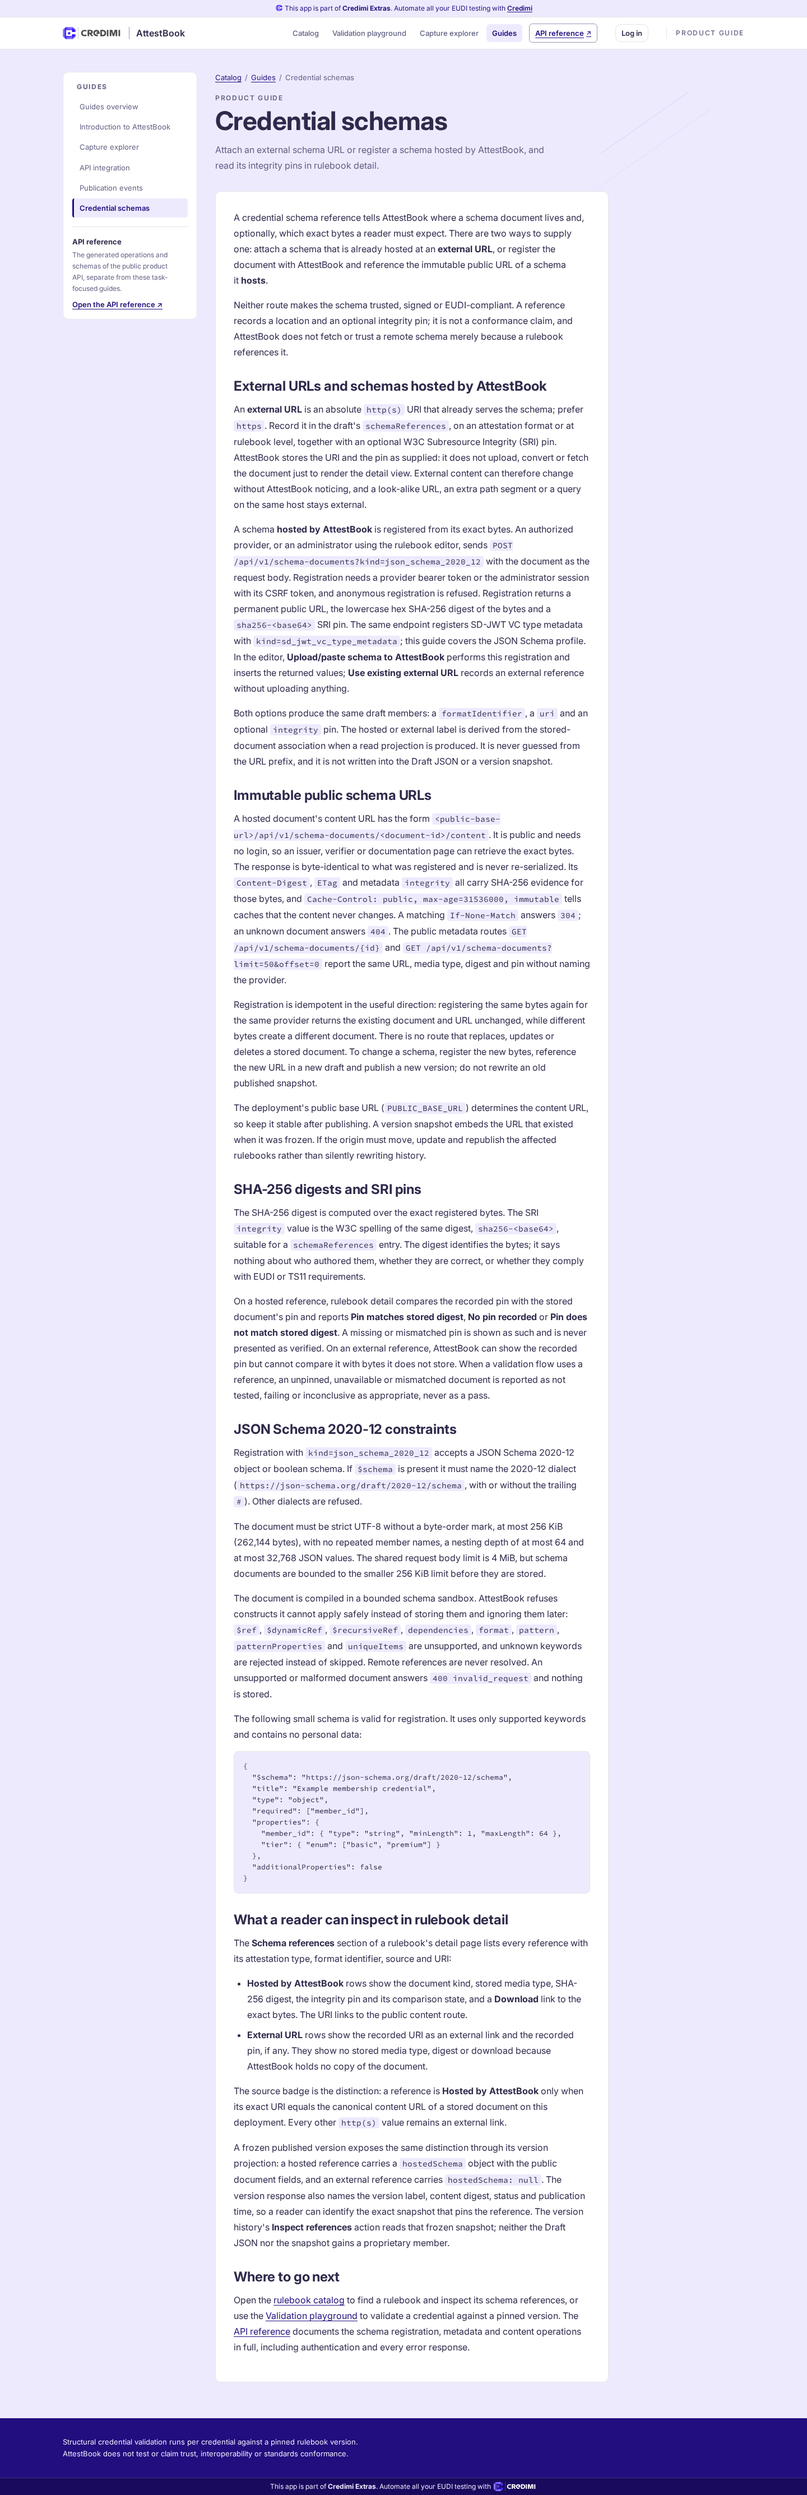
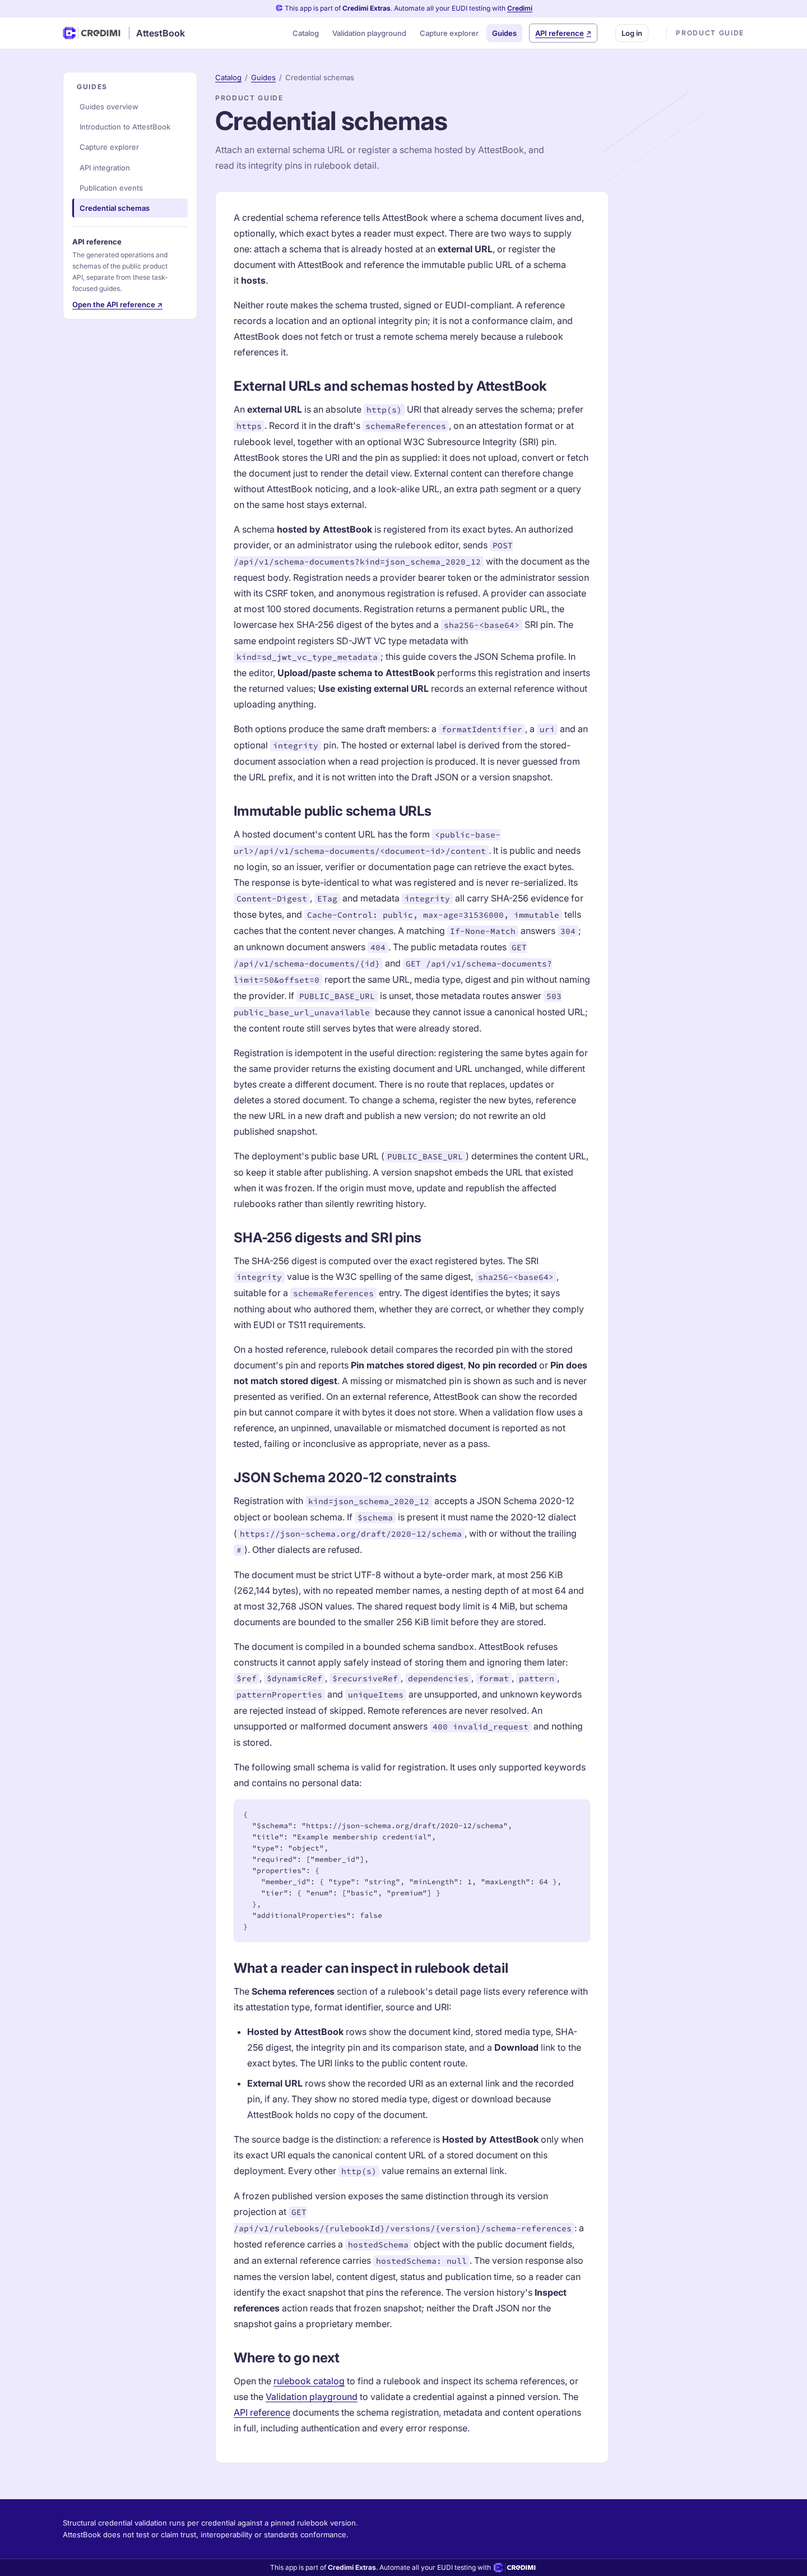
docs(guide): document schema limits and version references
Name the frozen version schema-references endpoint, the metadata 503 when no public base URL is configured, the per-provider document bound, and the hosted content URL form; cover them in the component test.

Changed region(s): [[0.0938, 0.0312, 0.7188, 0.9993], [0.0938, 0.0312, 0.2188, 0.1249], [0.6562, 0.0, 0.7188, 0.0312]]

diff --git a/ui/src/guide.test.tsx b/ui/src/guide.test.tsx
@@ -430,8 +430,12 @@ describe('product guide views', () => {
     expect(article).toHaveTextContent('Hosted by AttestBook')
     expect(article).toHaveTextContent('External URL')
     expect(article).toHaveTextContent('/api/v1/schema-documents')
+    expect(article).toHaveTextContent('/api/v1/schema-documents/<document-id>/content')
     expect(article).toHaveTextContent('/api/v1/schema-documents?limit=50&offset=0')
+    expect(article).toHaveTextContent('503 public_base_url_unavailable')
+    expect(article).toHaveTextContent('at most 100 stored documents')
     expect(article).toHaveTextContent('kind=sd_jwt_vc_type_metadata')
+    expect(article).toHaveTextContent('/versions/{version}/schema-references')
     expect(article).toHaveTextContent('sha256-<base64>')
     expect(
       within(article as HTMLElement).getByRole('link', { name: 'rulebook catalog' }),

diff --git a/docs/guides/credential-schemas.md b/docs/guides/credential-schemas.md
@@ -20,12 +20,12 @@ A schema **hosted by AttestBook** is registered from its exact bytes. An authori
 or an administrator using the rulebook editor, sends `POST
 /api/v1/schema-documents?kind=json_schema_2020_12` with the document as the request body.
 Registration needs a provider bearer token or the administrator session with its CSRF token,
-and anonymous registration is refused. Registration returns a permanent public URL, the
-lowercase hex SHA-256 digest of the bytes and a `sha256-<base64>` SRI pin. The same endpoint
-registers SD-JWT VC type metadata with `kind=sd_jwt_vc_type_metadata`; this guide covers the
-JSON Schema profile. In the editor, **Upload/paste schema to AttestBook** performs this
-registration and inserts the returned values; **Use existing external URL** records an external
-reference without uploading anything.
+and anonymous registration is refused. A provider can associate at most 100 stored documents.
+Registration returns a permanent public URL, the lowercase hex SHA-256 digest of the bytes and a
+`sha256-<base64>` SRI pin. The same endpoint registers SD-JWT VC type metadata with
+`kind=sd_jwt_vc_type_metadata`; this guide covers the JSON Schema profile. In the editor,
+**Upload/paste schema to AttestBook** performs this registration and inserts the returned
+values; **Use existing external URL** records an external reference without uploading anything.
 
 Both options produce the same draft members: a `formatIdentifier`, a `uri` and an optional
 `integrity` pin. The hosted or external label is derived from the stored-document association
@@ -43,7 +43,9 @@ is byte-identical to what was registered and is never re-serialized. Its `Conten
 changes. A matching `If-None-Match` answers `304`; an unknown document answers `404`. The
 public metadata routes `GET /api/v1/schema-documents/{id}` and
 `GET /api/v1/schema-documents?limit=50&offset=0` report the same URL, media type, digest and
-pin without naming the provider.
+pin without naming the provider. If `PUBLIC_BASE_URL` is unset, those metadata routes answer
+`503 public_base_url_unavailable` because they cannot issue a canonical hosted URL; the content
+route still serves bytes that were already stored.
 
 Registration is idempotent in the useful direction: registering the same bytes again for the
 same provider returns the existing document and URL unchanged, while different bytes create a
@@ -123,12 +125,13 @@ The source badge is the distinction: a reference is **Hosted by AttestBook** onl
 exact URI equals the canonical content URL of a stored document on this deployment. Every
 other `http(s)` value remains an external link.
 
-A frozen published version exposes the same distinction through its version projection: a
-hosted reference carries a `hostedSchema` object with the public document fields, and an
-external reference carries `hostedSchema: null`. The version response also names the version
-label, content digest, status and publication time, so a reader can identify the exact snapshot
-that pins the reference. The version history's **Inspect references** action reads that frozen
-snapshot; neither the Draft JSON nor the snapshot gains a proprietary member.
+A frozen published version exposes the same distinction through its version projection at
+`GET /api/v1/rulebooks/{rulebookId}/versions/{version}/schema-references`: a hosted reference
+carries a `hostedSchema` object with the public document fields, and an external reference
+carries `hostedSchema: null`. The version response also names the version label, content digest,
+status and publication time, so a reader can identify the exact snapshot that pins the
+reference. The version history's **Inspect references** action reads that frozen snapshot;
+neither the Draft JSON nor the snapshot gains a proprietary member.
 
 ## Where to go next
 
